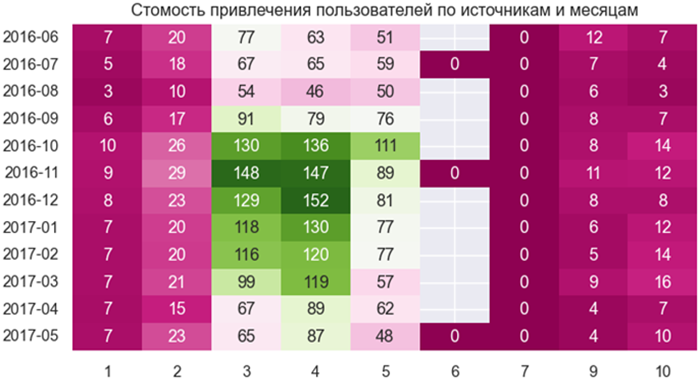
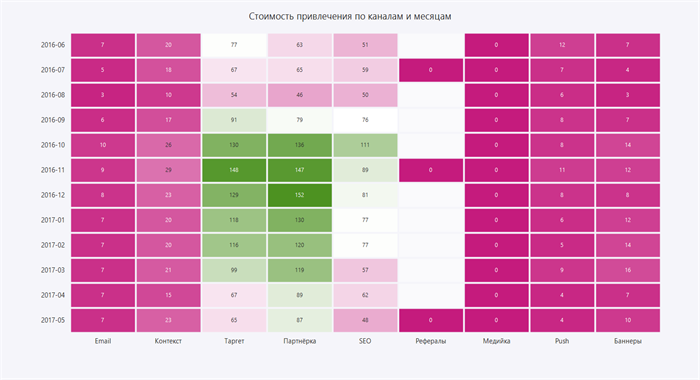
Label LTV channels by name using the same calculated figures.

diff --git a/fintech_ltv/README.md b/fintech_ltv/README.md
@@ -9,16 +9,16 @@
 ## Результат
 
 - Максимальный средний чек — когорта **сент. 2016**, минимальный — **фев. 2017**
-- Лучшие источники по выручке: **2, 4, 5**; заметный рост окт–дек и спад июн–сент (сезонность)
+- Лучшие каналы по выручке: **контекст, партнёрка и SEO**; заметный рост окт–дек и спад июн–сент (сезонность)
 - Наибольший накопительный LTV — когорты **июн. и сент. 2016** — ориентир для похожего привлечения
-- Десктоп дороже и объёмнее мобильного; расходы сконцентрированы на источниках **3, 4, 5**
+- Десктоп дороже и объёмнее мобильного; расходы сконцентрированы на **таргете, партнёрке и SEO**
 
 <img src="images/avg_cheque.png" alt="Средний чек" width="700">
 
 ## Что сделано
 
 1. **Средний чек** по когортам первой покупки
-2. **Выручка по source_id** (атрибуция к последнему источнику перед покупкой)
+2. **Выручка по каналам** (атрибуция к последнему визиту перед покупкой)
 3. **LTV** — средняя и накопительная выручка по когортам
 4. **Аномалии** — выбросы чеков и концентрация выручки у небольшой доли пользователей
 5. **CAC-взгляд** — расходы на трафик по устройствам и источникам
@@ -33,4 +33,4 @@
 
 ## Вывод
 
-Имеет смысл усиливать каналы **2 / 4 / 5** и когорты с высоким LTV, закладывать сезонность в бюджет и не оценивать десктоп только по стоимости клика — при сильном LTV канал может окупаться.
+Имеет смысл усиливать **контекст, партнёрку и SEO** и когорты с высоким LTV, закладывать сезонность в бюджет и не оценивать десктоп только по стоимости клика — при сильном LTV канал может окупаться.
